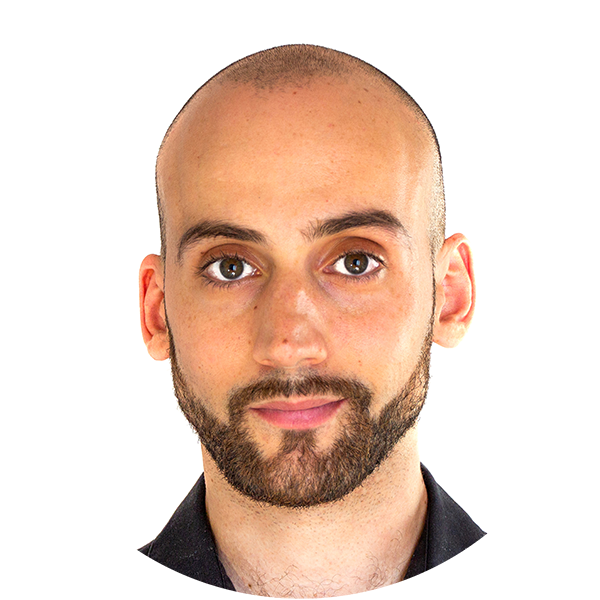
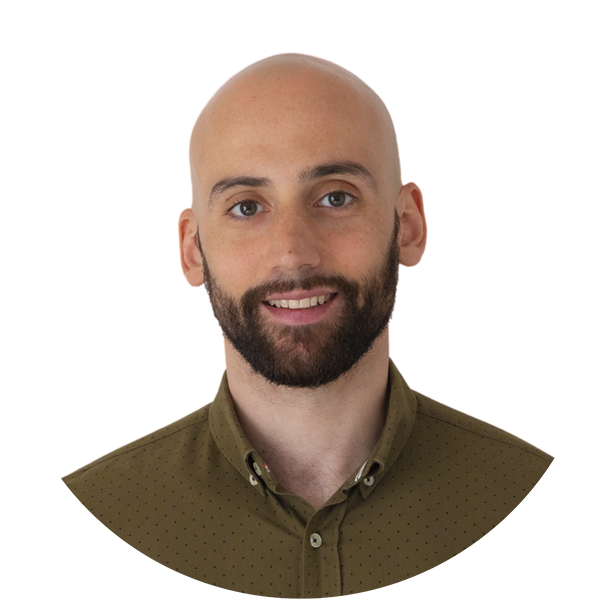
Changed the main photo and the description

diff --git a/index.html b/index.html
@@ -1,6 +1,7 @@
 <!DOCTYPE html>
 <html lang="en" dir="ltr">
   <head>
+
     <meta charset="utf-8">
     <title>Ezequiel G. Debada</title>
     <link rel="stylesheet" href="css/styles.css">
@@ -9,15 +10,17 @@
     <script src="./lib/anime.min.js"></script>
   </head>
   <body>
-
+  <script>
+      document.cookie = "SameSite=Strict";
+  </script>
     <!-- HEADER SECTION -->
     <div class="heading">
         <img class="avatar" src="assets/headshot_circle_low.png" alt="EzequielGDebada">
         <h1 class="heading_title">Ezequiel González Debada</h1>
         <p><em>PhD in Electrical Engineering</em></p>
         <div class="description_par">
-          After years of academic training in robotics and control, and upon completion of my Ph.D on motion planning, I find myself ready to bring know how to an organization looking to bring cutting edge technology and research into new products and services. 
-          I am looking for a research and development position on challenging topics related to mobile-robotics, navigation, and/or machine learning.
+          After years of academic training, I am ready to bring my know-how to an organization looking to bring cutting-edge technology and research into new products and services. 
+          I am looking for a robotics-related job opportunity enabling me to sharpen my C++ programming skills while developing algorithms to address open challenges, preferably related to motion planning, mapping, localization, ML, or computer vision. 
         </div>
         <div class="icons_section">
             <a href="mailto: ezgode@gmail.com">
@@ -108,8 +111,8 @@
                 </p><p class='edu_description'>
                   Furthemore, during this peeriod I took courses on machine learning, convex optimization, and simulation.
                 </p>
-                <div class=y_video><iframe width="100%" height="100%" src="https://www.youtube.com/embed/KwAMWm0L-LM"></iframe></div>
-                <div class=y_video><iframe width="100%" height="100%" src="https://www.youtube.com/embed/WjdfD8uis6A"></iframe></div>                
+                <div class=y_video><iframe width="100%" height="100%" src="https://www.youtube-nocookie.com/embed/KwAMWm0L-LM"></iframe></div>
+                <div class=y_video><iframe width="100%" height="100%" src="https://www.youtube-nocookie.com/embed/WjdfD8uis6A"></iframe></div>                
               </div>
 
 
@@ -141,7 +144,7 @@
                 <p class='edu_description'>
                   In my degree project I developed, deployed, and assessed a torque-vectoring strategy aiming at minimizing the longitudinal slip ratio of an electric vehicle with four in-wheel motors.
                   I developed an accurate model of the vehicle, design the torque vectoring strategy, assessed it in simulation, and implemented and tested it on a prototype. 
-                  <div class=y_video><iframe width="100%" height="100%" src="https://www.youtube.com/embed/3hWd9-HFIXc"></iframe></div>                         
+                  <div class=y_video><iframe width="100%" height="100%" src="https://www.youtube-nocookie.com/embed/3hWd9-HFIXc"></iframe></div>                         
                 </p>                
               </div>              
 
@@ -220,7 +223,7 @@
 
             <h2 class="paper_title"><a href='https://infoscience.epfl.ch/record/277116' target='_blank'>Motion planning for CAVs in mixed traffic : a study on roundabouts</a></h2> 
             <p class="paper_year">2020, PhD thesis.</p> 
-            <div class=y_video><iframe width="100%" height="100%" src="https://www.youtube.com/embed/iHF7-aP77Uw"></iframe></div>
+            <div class=y_video><iframe width="100%" height="100%" src="https://www.youtube-nocookie.com/embed/iHF7-aP77Uw"></iframe></div>
  
             <button type='button' class='collapsible'>Abstract</button>
             <div class="desciption_content">
@@ -229,7 +232,7 @@
 
             <h2 class="paper_title"><a href='https://ieeexplore.ieee.org/document/9177294' target='_blank'>Oclussion-Aware Motion Planning at Roundabouts</a></h2> 
             <p class="paper_year">2020, IEEE Transactions on Intelligent Vehicles (T-IVs)</p> 
-            <div class=y_video><iframe width="100%" height="100%" src="https://www.youtube.com/embed/MkGxTYT_c00"></iframe></div>
+            <div class=y_video><iframe width="100%" height="100%" src="https://www.youtube-nocookie.com/embed/MkGxTYT_c00"></iframe></div>
             
 
             <button type='button' class='collapsible'>Abstract</button>

diff --git a/javascript/src.js b/javascript/src.js
@@ -1,5 +1,6 @@
-
-
+// picture
+let avatar = document.getElementsByClassName("avatar")
+  
 // {
 let targ = document.getElementsByClassName("social_icon")
 // function inflate_icon_(data){
@@ -14,7 +15,6 @@ for (var k = 0; k < targ.length; k++) {
         {translateY: -10},
         {translateY: 0},
       ],
-      background: '#FFF',
       easing: 'easeInOutQuad',
       autoplay: false,
       direction: 'alternate',
@@ -35,23 +35,6 @@ for (targ of document.getElementsByClassName("social_icon")){
   targ.addEventListener("mouseenter", inflate_icon)
   targ.addEventListener("mouseleave", deinflate_icon)    
 }
-
-// var animation = anime({
-//     targets: targ[0],
-//     easing: 'easeOutElastic(1, 1.0)',
-//     duration: 1000,
-//     translateY: -10,
-//     autoplay: false,
-//   });
-// targ.onmouseenter = animation.play
-// }
-// for (targ of document.getElementsByClassName("social_icon")){
-//   targ.onmouseenter = animation.play
-//   // targ.addEventListener("mouseleave", deinflate_icon)    
-// }
-
-// }
-
 
 // 
 let table = document.getElementById("skill_table");
